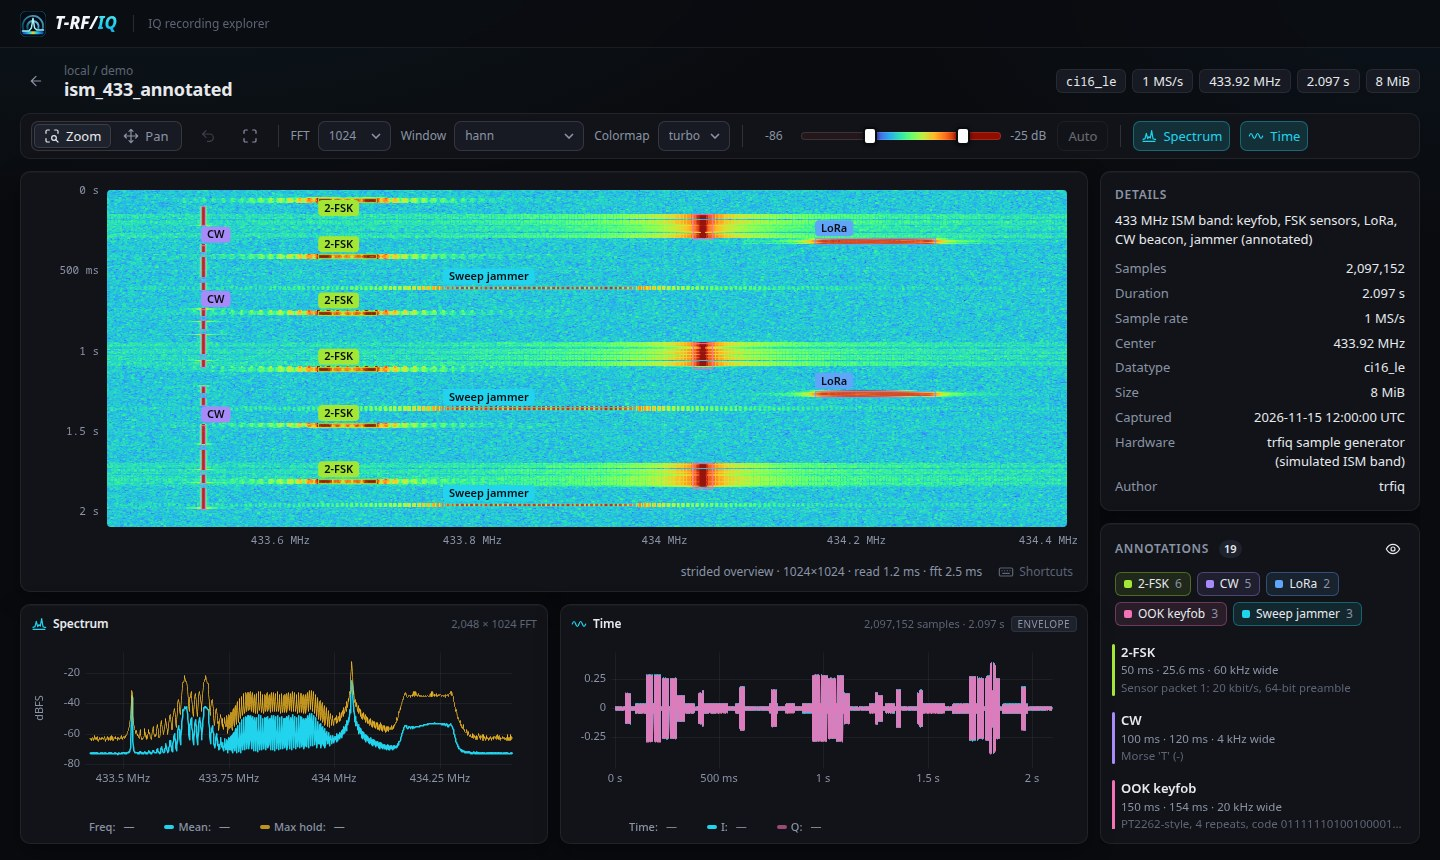
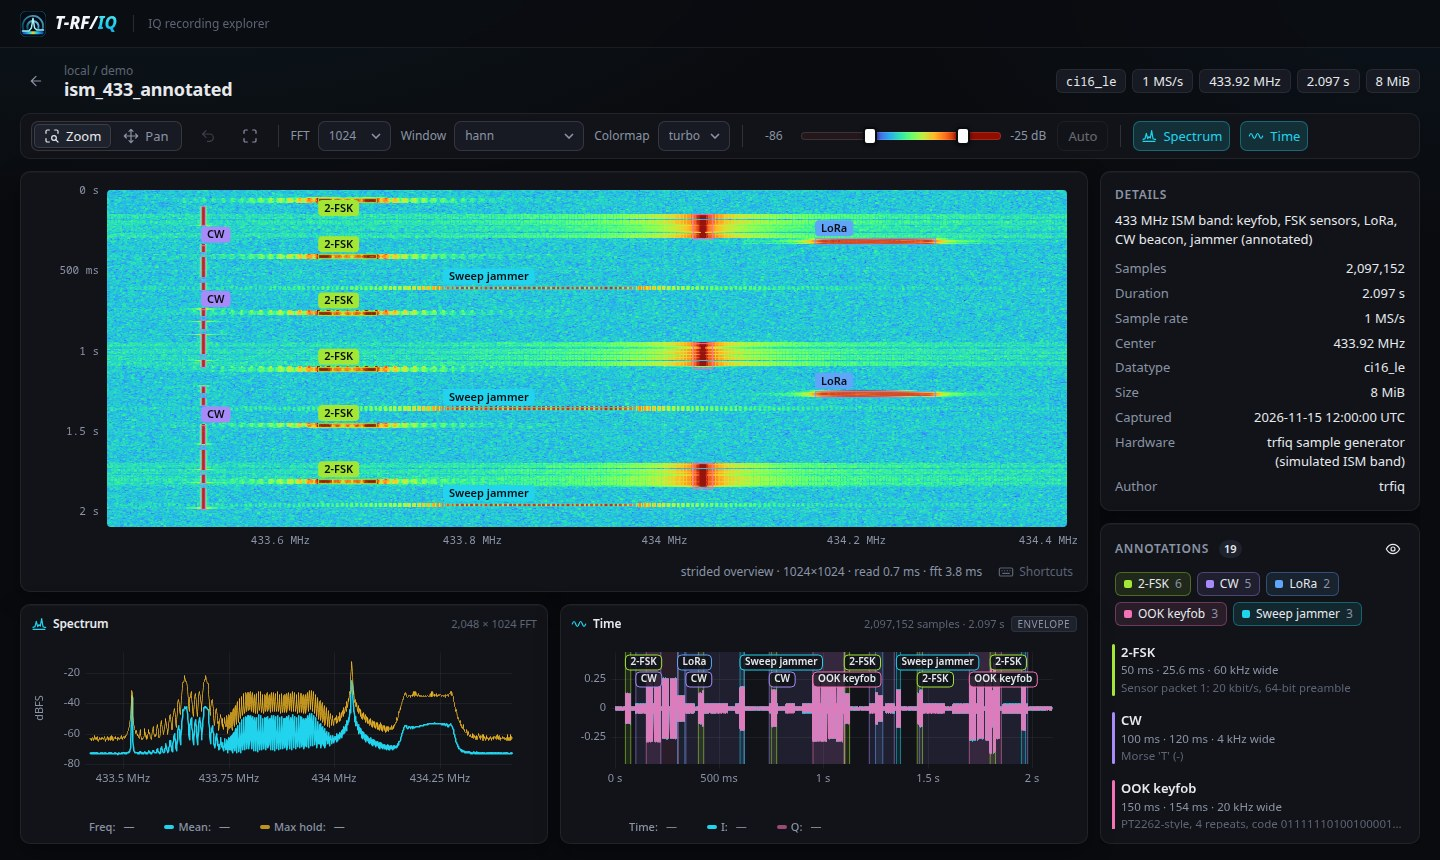
feat(web): show annotations on the time plot
Annotations in the visible window are drawn as bands in their label colour, with labels
on up to two rows. They follow the label filters, the A toggle and the selection, and
clicking a band selects that annotation.

Changed region(s): [[0.4375, 0.7558, 0.7188, 0.907]]

diff --git a/web/src/plots/DetailPlots.tsx b/web/src/plots/DetailPlots.tsx
@@ -7,6 +7,7 @@ import { keepPreviousData, useQuery } from '@tanstack/react-query'
 import uPlot from 'uplot'
 import 'uplot/dist/uPlot.min.css'
 import { api, type PsdData, type RecordingDetail, type TimeData, type WindowFn } from '../api'
+import type { Annotation } from '../annotations'
 import * as fmt from '../format'
 import { Icon, type IconName } from '../ui'
 
@@ -129,8 +130,8 @@ export function SpectrumPlot(p: { r: RecordingDetail; win: DetailWindow; fft: nu
       legend: { live: true },
       series: [
         { label: 'Freq', value: (_u, v) => (v == null ? '—' : fmt.hz(v, 9)) },
-        { label: 'Mean', stroke: C.mean, width: 1.5, value: dbValue },
-        { label: 'Max hold', stroke: C.max, width: 1, value: dbValue },
+        { label: 'Mean', stroke: C.mean, width: 1.5, value: dbValue, points: { show: false } },
+        { label: 'Max hold', stroke: C.max, width: 1, value: dbValue, points: { show: false } },
       ],
       axes: [axis((v) => fmt.hz(v, 6), { space: 90 }), axis((v) => `${v}`, { size: 44, label: 'dBFS', labelSize: 14, labelFont: C.font })],
     }),
@@ -182,8 +183,18 @@ function usePsdData(d: PsdData | undefined, r: RecordingDetail): uPlot.AlignedDa
 
 // ---- time ----------------------------------------------------------------------------------
 
-export function TimePlot(p: { r: RecordingDetail; win: DetailWindow }) {
+export function TimePlot(p: {
+  r: RecordingDetail
+  win: DetailWindow
+  /** Annotations to draw (already filtered by label / visibility). */
+  annotations: Annotation[]
+  selected: number | null
+  onSelect: (a: Annotation) => void
+}) {
   const { r, win } = p
+  const sr = r.sample_rate ?? 1
+  const ann = useRef({ list: p.annotations, selected: p.selected, sr, onSelect: p.onSelect })
+  ann.current = { list: p.annotations, selected: p.selected, sr, onSelect: p.onSelect }
   const q = useQuery({
     queryKey: ['time', r.id, win.start, win.count],
     queryFn: ({ signal }) => api.time(r.id, { start: win.start, count: win.count, points: TIME_POINTS }, signal),
@@ -191,23 +202,37 @@ export function TimePlot(p: { r: RecordingDetail; win: DetailWindow }) {
     placeholderData: keepPreviousData,
   })
   const data = useTimeData(q.data, r)
-  const { hostRef } = usePlot(
+  const { hostRef, plotRef } = usePlot(
     () => ({
+      hooks: {
+        // Bands under the traces, labels on top of them.
+        drawClear: [(u) => drawAnnotationBands(u, ann.current.list, ann.current.selected, ann.current.sr)],
+        draw: [(u) => drawAnnotationLabels(u, ann.current.list, ann.current.selected, ann.current.sr)],
+        ready: [(u) => clickToSelect(u, (t) => {
+          const a = annotationAt(ann.current.list, t * ann.current.sr)
+          if (a) ann.current.onSelect(a)
+        })],
+      },
       scales: { x: { time: false } },
       cursor: { drag: { x: true, y: false } },
       legend: { live: true },
       series: [
         { label: 'Time', value: (_u, v) => (v == null ? '—' : fmt.seconds(v)) },
-        { label: 'I', stroke: C.i, width: 1, value: ampValue },
-        { label: 'Q', stroke: C.q, width: 1, value: ampValue },
+        { label: 'I', stroke: C.i, width: 1, value: ampValue, points: { show: false } },
+        { label: 'Q', stroke: C.q, width: 1, value: ampValue, points: { show: false } },
       ],
       axes: [axis(fmt.seconds, { space: 80 }), axis((v) => `${+v.toFixed(3)}`, { size: 44, space: 24 })],
     }),
     data,
   )
 
+  useEffect(() => {
+    // Redrawing before the first data would draw axes uPlot hasn't laid out yet (it throws).
+    const u = plotRef.current
+    if (u && u.data[0]?.length) u.redraw(false)
+  }, [p.annotations, p.selected, plotRef])
+
   const d = q.data
-  const sr = r.sample_rate ?? 1
   return (
     <PlotCard
       icon="wave"
@@ -278,4 +303,95 @@ function useTimeData(d: TimeData | undefined, r: RecordingDetail): uPlot.Aligned
   const out: uPlot.AlignedData = [t as unknown as number[], i as unknown as number[], q as unknown as number[]]
   cache.current = { d, out }
   return out
+}
+
+// ---- annotations on the time plot ----------------------------------------------------------
+
+/** The shortest annotation covering `sample`, so nested ones stay clickable. */
+function annotationAt(list: Annotation[], sample: number): Annotation | null {
+  let best: Annotation | null = null
+  for (const a of list) {
+    if (sample >= a.start && sample <= a.start + a.count && (!best || a.count < best.count)) best = a
+  }
+  return best
+}
+
+/** Visible annotations as canvas x ranges, clipped to the plot area. */
+function bands(u: uPlot, list: Annotation[], sr: number) {
+  const { min, max } = u.scales.x
+  if (min == null || max == null) return []
+  const { left, width } = u.bbox
+  return list.flatMap((a) => {
+    const t0 = a.start / sr
+    const t1 = (a.start + a.count) / sr
+    if (t1 < min || t0 > max) return []
+    const x0 = Math.max(left, u.valToPos(t0, 'x', true))
+    const x1 = Math.min(left + width, u.valToPos(t1, 'x', true))
+    return [{ a, x0, x1: Math.max(x1, x0 + 1) }]
+  })
+}
+
+function drawAnnotationBands(u: uPlot, list: Annotation[], selected: number | null, sr: number) {
+  const { ctx, bbox } = u
+  const px = devicePixelRatio
+  ctx.save()
+  for (const { a, x0, x1 } of bands(u, list, sr)) {
+    const sel = a.id === selected
+    ctx.globalAlpha = sel ? 0.24 : 0.1
+    ctx.fillStyle = a.color
+    ctx.fillRect(x0, bbox.top, x1 - x0, bbox.height)
+    ctx.globalAlpha = sel ? 1 : 0.55
+    ctx.strokeStyle = a.color
+    ctx.lineWidth = (sel ? 1.5 : 1) * px
+    ctx.beginPath()
+    for (const x of [x0, x1]) {
+      ctx.moveTo(x, bbox.top)
+      ctx.lineTo(x, bbox.top + bbox.height)
+    }
+    ctx.stroke()
+  }
+  ctx.restore()
+}
+
+function drawAnnotationLabels(u: uPlot, list: Annotation[], selected: number | null, sr: number) {
+  const { ctx, bbox } = u
+  const px = devicePixelRatio
+  const h = 15 * px
+  const rowEnds = [-Infinity, -Infinity]
+  ctx.save()
+  ctx.font = `600 ${10 * px}px Inter, ui-sans-serif, system-ui, sans-serif`
+  ctx.textBaseline = 'middle'
+  ctx.textAlign = 'left' // uPlot leaves whatever its axes used
+  // Selected first, so it always gets a slot; others take the first free row or are skipped.
+  const items = bands(u, list, sr).sort((p, q) => Number(q.a.id === selected) - Number(p.a.id === selected) || p.x0 - q.x0)
+  for (const { a, x0 } of items) {
+    const w = ctx.measureText(a.label).width + 10 * px
+    const x = Math.min(x0, bbox.left + bbox.width - w)
+    const row = rowEnds.findIndex((end) => x >= end + 3 * px)
+    if (row < 0) continue
+    rowEnds[row] = x + w
+    const y = bbox.top + 3 * px + row * (h + 2 * px)
+    ctx.globalAlpha = 0.92
+    ctx.fillStyle = a.id === selected ? a.color : 'rgba(17, 19, 25, 0.9)'
+    ctx.beginPath()
+    ctx.roundRect(x, y, w, h, 4 * px)
+    ctx.fill()
+    ctx.globalAlpha = 1
+    ctx.strokeStyle = a.color
+    ctx.lineWidth = px
+    ctx.stroke()
+    ctx.fillStyle = a.id === selected ? '#0a0b0f' : '#e7e9ee'
+    ctx.fillText(a.label, x + 5 * px, y + h / 2)
+  }
+  ctx.restore()
+}
+
+/** Call `onClick(time)` for clicks on the plot, but not at the end of a drag-zoom. */
+function clickToSelect(u: uPlot, onClick: (t: number) => void) {
+  let down: { x: number; y: number } | null = null
+  u.over.addEventListener('mousedown', (e) => (down = { x: e.clientX, y: e.clientY }))
+  u.over.addEventListener('click', (e) => {
+    if (down && Math.hypot(e.clientX - down.x, e.clientY - down.y) > 3) return
+    onClick(u.posToVal(e.offsetX, 'x'))
+  })
 }

diff --git a/web/src/pages/Viewer.tsx b/web/src/pages/Viewer.tsx
@@ -119,6 +119,11 @@ export function Viewer() {
       .filter((a): a is PlotAnnotation => a != null)
   }, [annotations, hiddenLabels, rec.data])
 
+  const listedAnnotations = useMemo(
+    () => (showAnn ? annotations.filter((a) => !hiddenLabels.has(a.label)) : NO_ANNOTATIONS),
+    [annotations, hiddenLabels, showAnn],
+  )
+
   const selectAnnotation = (a: Annotation | null, zoom: boolean) => {
     setSelected(a?.id ?? null)
     if (!a || !zoom || !rec.data) return
@@ -259,7 +264,16 @@ export function Viewer() {
           )}
         </section>
         {viewable && (panels.spectrum || panels.time) && (
-          <DetailRow r={r} v={search.v} fft={fft} windowFn={windowFn} panels={panels} />
+          <DetailRow
+            r={r}
+            v={search.v}
+            fft={fft}
+            windowFn={windowFn}
+            panels={panels}
+            annotations={listedAnnotations}
+            selected={selected}
+            onSelect={(a) => selectAnnotation(a, false)}
+          />
         )}
         </div>
 
@@ -290,7 +304,18 @@ export function Viewer() {
 
 // ---- detail plots for the visible window ---------------------------------------------------
 
-function DetailRow(p: { r: RecordingDetail; v?: string; fft: number; windowFn: WindowFn; panels: Panels }) {
+const NO_ANNOTATIONS: Annotation[] = []
+
+function DetailRow(p: {
+  r: RecordingDetail
+  v?: string
+  fft: number
+  windowFn: WindowFn
+  panels: Panels
+  annotations: Annotation[]
+  selected: number | null
+  onSelect: (a: Annotation) => void
+}) {
   const { r, v } = p
   // Driven by the (debounced) view in the URL, so panning doesn't flood the server.
   const win = useMemo<DetailWindow>(() => {
@@ -312,7 +337,9 @@ function DetailRow(p: { r: RecordingDetail; v?: string; fft: number; windowFn: W
   return (
     <div className={`detail-row${p.panels.spectrum && p.panels.time ? ' two' : ''}`}>
       {p.panels.spectrum && <SpectrumPlot r={r} win={win} fft={p.fft} window={p.windowFn} />}
-      {p.panels.time && <TimePlot r={r} win={win} />}
+      {p.panels.time && (
+        <TimePlot r={r} win={win} annotations={p.annotations} selected={p.selected} onSelect={p.onSelect} />
+      )}
     </div>
   )
 }

diff --git a/web/e2e/app.spec.ts b/web/e2e/app.spec.ts
@@ -166,6 +166,13 @@ test('spectrum and time plots follow the visible window', async ({ page }) => {
   await expect(time).toContainText('envelope')
   expect(await distinctColours(page, '[data-testid="spectrum-plot"] canvas')).toBeGreaterThan(3)
 
+  // Annotations are drawn on the time plot; clicking one there selects it.
+  // The first LoRa burst spans 300–335 ms of the 2.097 s recording.
+  const over = time.locator('.u-over')
+  const ob = (await over.boundingBox())!
+  await over.click({ position: { x: ob.width * (0.317 / 2.097), y: ob.height / 2 } })
+  await expect(page.locator('.ann-item.selected')).toContainText('LoRa')
+
   // Zooming to an annotation narrows the window: the time plot switches to raw samples.
   const timeReq = page.waitForRequest((r) => r.url().includes('/time?') && !r.url().includes('start=0&'))
   await page.locator('.ann-item', { hasText: 'LoRa' }).first().click()

diff --git a/README.md b/README.md
@@ -152,7 +152,8 @@ Hovering shows frequency, time, power and the annotation under the cursor.
 
 The **Spectrum** and **Time** panels under the spectrogram always cover the time range that's
 visible, so zoom into a burst and they show just that burst. The spectrum also follows the
-frequency zoom. Each request reads at most ~2M samples. Over that, the panel shows a `sampled`
+frequency zoom. Annotations are drawn on the time plot as labelled bands; click one to select
+it. Each request reads at most ~2M samples. Over that, the panel shows a `sampled`
 badge: FFT segments, or slices of the envelope, are spread evenly across the window.
 
 ## How it works
